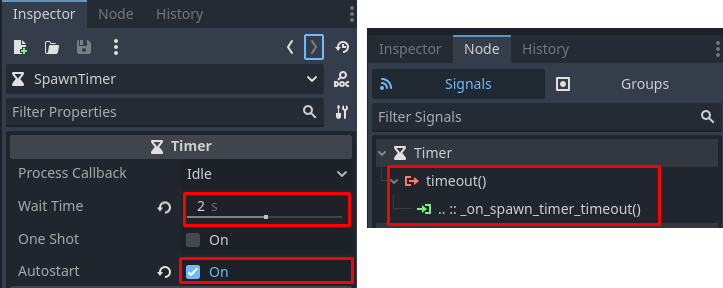
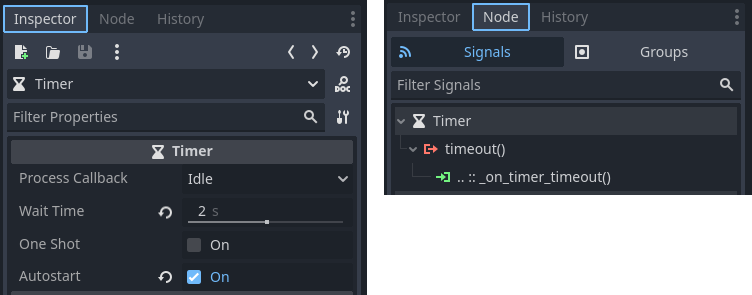
helid alaptk yle kontrollitud

diff --git a/laskur-2.0/helid.md b/laskur-2.0/helid.md
@@ -7,7 +7,7 @@ nav_order: 2
 
 # Helid
 
-Selles alapeatükis loome juurde veel ühe vastase, kes liigub Tweeniga loodud animatsiooni abiga, õpime Godot's helisid kasutama ja loome vastaseid haldava stseeni, mis vastaseid pidevalt juurde tekitab.
+Selles alapeatükis loome juurde veel ühe vastase, kes liigub Tweeniga loodud animatsiooni abiga, õpime Godot's helisid kasutama ja loome vastaseid haldava stseeni, mis vastaseid pidevalt juurde tekitab ja hiljem aitab meil skoori süsteemi ehitada.
 
 ## Lendaja
 
@@ -17,16 +17,14 @@ Sellel tegelasel on vaid **üks animatsioon**, mis **automaatselt** mängima hak
 
 ![Flyeri animatsiooni detailid](./pildid/helid/flyer-animatsioon.png)
 
-Lisa juurde CollisionShape2D, mille kujuks on RectangleShape2D ja Hitbox, mille CollisionShape2D kujuks on CircleShape2D. Määra neile suurused ise. Salvesta stseen `entities` kausta nagu teistegi olemustega. **Ära unusta sõlmede füüsikakihid** - juursõlm on *enemy* kihil ja põrkab kokku *level*iga, Hitbox peab ainult *player* kihti tuvastama.
+Lisa juurde CollisionShape2D, mille kujuks on RectangleShape2D ja Hitbox, mille CollisionShape2D kujuks on CircleShape2D. Määra neile suurused ise. Salvesta stseen `entities` kaustas oma kausta nagu teistega tegime. **Ära unusta sõlmede füüsikakihid** - juursõlm on *enemy* kihil ja põrkab kokku *level*iga, Hitbox peab ainult *player* kihti tuvastama.
 
-Määra Flyerile ka mingi elupunktide arv. Mina panin näiteks talle `max_health` väärtuseks 3.
+Määra Flyerile ka mingi elupunktide arv ja kiirus. Mina panin näiteks talle `max_health` väärtuseks 3 ja `speed` väärtuseks 50.
 
-Nüüd oleks vaja ta liikuma panna. Loo juurde skript `flyer.gd`. Lendaja on kogu aeg õhus ja lendab vaikselt üles-alla. Kuigi ta kutsub `_process(delta)` funktsioonis välja ikka `move_and_slide()`, siis tema liikumise loogika läheb tegelikult `_ready()` funktsiooni. Skript tuleb välja selline:
+Nüüd oleks vaja ta liikuma panna. Loo juurde skript `flyer.gd` juursõlme paremklõpsu menüüst valikuga `Extend Script...`. Lendaja on kogu aeg õhus ja lendab vaikselt üles-alla. Kuigi ta kutsub `_process(delta)` funktsioonis välja ikka `move_and_slide()`, siis tema liikumise loogika läheb tegelikult `_ready()` funktsiooni. Skript tuleb välja selline:
 
 ```gdscript
 extends Entity
-
-const MAX_Y_VELOCITY: float = 24.0
 
 @export var sprite: AnimatedSprite2D
 
@@ -35,19 +33,19 @@ func _ready() -> void:
 	sprite.flip_h = direction < 0.0
 	var tween = create_tween()
 	# paneb Tweeni animatsiooni korduma
-	# vajaduse korral saab argumendiks arvu anda
+	# vajaduse korral saab ka korduste arvu kirjutada, aga tahame et ta jääkski korduma
 	tween.set_loops()
 	tween.tween_property(
 		self,
 		"velocity:y", # muudab velocity.y väärtust
-		MAX_Y_VELOCITY,
+		speed,
 		1.0 # võtab 1 sekund
 	)
 	# toimub peale eelmise tween_property lõppu
 	tween.tween_property(
 		self,
 		"velocity:y",
-		-(MAX_Y_VELOCITY),
+		-(speed),
 		1.0
 	)
 
@@ -73,9 +71,9 @@ Ava taas peategelase stseen ja lisa kaks `AudioStreamPlayer` sõlme. Mina nimeta
 
 ![Helifaili valimise instruktsioon](./pildid/helid/helifaili-valimine.png)
 
-Avaneb väike aken, mis kuvab kõiki selleks väärtuseks sobivaid helifaile. Mina tegelesin ennem JumpAudioStreamPlayeriga, seega valisin `sounds/jump.wav`. Enne, kui teise heli juurde liigud, kontrolli oma heli volüümi. Mina leidsin, et see on vaikimisi liiga vali, seega langetasin `Volume dB` -10 detsibelli peale. Tee sama protsess läbi ka laskmise heliga. Laskmise helil võiks muuta ka `Max Polyphony` väärtuse 5 peale - see tähendab, et 5 laskmise heli võib korraga mängida.
+Avaneb väike aken, mis kuvab kõiki selleks väärtuseks sobivaid helifaile. Mina tegelen ennem JumpAudioStreamPlayeriga, seega valisin `sounds/jump.wav`. Enne, kui teise heli juurde liigud, kontrolli oma heli volüümi. Mina leidsin, et see on niisama liiga vali, seega langetasin `Volume dB` -10 detsibelli peale. Tee sama protsess läbi ka laskmise heliga. Laskmise helil võiks muuta ka `Max Polyphony` väärtuse 5 peale - see tähendab, et 5 laskmise heli võib korraga mängida, kui mängija väga kiiresti relva laseb.
 
-Kui sõlmed on ette valmistatud, siis peame viimast korda `player.gd` skripti muutma. Meie heli sõlmede jaoks on vaja eksportmuutujaid ning on vaja leida õiged read, kus AudioStreamPlayeri `play()` funktsiooni kasutada.
+Kui sõlmed on ette valmistatud, siis peame viimast korda `player.gd` skripti muutma. Meie heli sõlmede jaoks on vaja **eksportmuutujaid** ning on vaja leida õiged read, kus AudioStreamPlayeri `play()` funktsiooni kasutada.
 
 ```gdscript
 	... (muu kood)
@@ -99,7 +97,7 @@ Kui sõlmed on ette valmistatud, siis peame viimast korda `player.gd` skripti mu
 
 Praegu tundub meie projekt ikka rohkem nagu prototüüp kui tõeline mäng. Seda saame parandada uue süsteemiga, mis vastaseid pidevalt põhistseenis juurde tekitama hakkab. Niimoodi on mängijal pidevalt vaja vastaseid hävitada ja mäng on kaasahaaravam.
 
-Loo uus stseen, kus tavaline Node2D on juursõlm ja tema ainus laps-sõlm on **Timer** (eesti keeles taimer). Timer sõlme me pole veel kasutanud, aga tema funktsionaalsus on päris ilmne - see võtab aega ja mingi aja möödudes lõpetab oma töö.
+Loo uus stseen, kus tavaline Node2D nimega `EnemyManager` on juursõlm ja tema ainus laps-sõlm on **Timer** (eesti keeles taimer). Timer sõlme me pole veel kasutanud, aga tema funktsionaalsus on päris ilmne - see võtab aega ja mingi aja möödudes lõpetab oma töö.
 
 Loo juursõlmele uus skript nimega `enemy_manager.gd`. Kohe ei pea sinna midagi kirjutama, kuid Timeri `timeout()` signaali kasutamiseks on vaja skripti, millega seda ühendada. Määra taimeri `Wait Time` väärtuseks inspektoris 2 sekundit, märgi tõeseks `Autostart` väärtus ja ühenda siis tema `timeout()` signaal skriptiga.
 

diff --git a/2d-mang/laskmine.md b/2d-mang/laskmine.md
@@ -65,7 +65,7 @@ Area2D (*hitbox*/tabamisala):
 
 ## Skript
 
-On aeg luua meie kuulile skript nimega `bullet.gd`. Kuulil on sarnaselt peategelasele vaja kiiruse muutujat ja suuna muutujat, et teada, kuhu ta lendab. Lisaks on vaja eksportmuutujat Sprite2D jaoks, sest me plaanime spraiti pöörata `_ready` funktsioonis olenevalt kuuli suunast. Spraidi pööramiseks on olemas käepärane omadus `flip_h`, mis vaikimisi on **väär**.
+On aeg luua meie kuulile skript nimega `bullet.gd`. Kuulil on sarnaselt peategelasele vaja kiiruse muutujat ja suuna muutujat, et teada, kuhu ta lendab. Lisaks on vaja eksportmuutujat Sprite2D jaoks, sest me plaanime spraiti pöörata `_ready()` funktsioonis olenevalt kuuli suunast. Spraidi pööramiseks on olemas käepärane omadus `flip_h`, mis vaikimisi on **väär**.
 
 ### Ülesanne 1
 
@@ -73,8 +73,8 @@ Kirjuta kuuli skripti siis järgnevad asjad:
 
 -	muutujad kiiruse, suuna ja Sprite2D sõlme jaoks
 	-	suuna väärtus võiks vaikimisi 1.0 olla ehk paremale
--	`_ready` funktsioon, kus Sprite2D pöörad
--	`_process` funktsioon
+-	`_ready()` funktsioon, kus Sprite2D pöörad
+-	`_process()` funktsioon
 	-	`velocity.x` väärtuse määramine
 	-	kuuli liikuma panemine
 
@@ -94,7 +94,7 @@ func _process(delta: float) -> void:
 	move_and_slide()
 ```
 
-Meie tabamisala Area2D väljastab signaali, kui vastast puutub, aga midagi ei juhtu vastasega veel. Selleks vali stseeni dokis Area2D sõlm, liigu sõlme dokki (inspektori dokist parempoolse nupu kaudu). Leia signaal `body_entered(body: Node2D)` ja ühenda see juursõlme skriptiga. Skripti tekib funktsioon `_on_area_2d_body_entered`. Seal kontrollime, kas meie `body` argument on ikka `CharacterBody2D` tüüpi. Kui on tegu `CharacterBody2D`'ga, siis kustutatakse see tegelane, mille Area2D tuvastas.
+Meie tabamisala Area2D väljastab signaali, kui vastast puutub, aga midagi ei juhtu vastasega veel. Selleks vali stseeni dokis Area2D sõlm, liigu sõlme dokki (inspektori dokist parempoolse nupu kaudu). Leia signaal `body_entered(body: Node2D)` ja ühenda see juursõlme skriptiga. Skripti tekib funktsioon `_on_area_2d_body_entered()`. Seal kontrollime, kas meie `body` argument on ikka `CharacterBody2D` tüüpi. Kui on tegu `CharacterBody2D`'ga, siis kustutatakse see tegelane, mille Area2D tuvastas.
 
 Kuuli skripti lõppu läheks siis selline kood kirja:
 
@@ -119,7 +119,7 @@ Lisame siis peategelase stseeni Marker2D. Mina liigutasin selle enda stseenis po
 
 Skriptis loo eksportmuutuja markeri jaoks nimega `bullet_marker` ja enda signaal nimega `shot_projectile(spawn_position: Vector2, direction: float)`. Kui toimub laskmise tegevus, siis seda signaali saadetakse laiali koos vastavate argumentidega.
 
-`_process` funktsioonile lisatakse juurde siis järgnev kood enne `move_and_slide()` käsku:
+`_process()` funktsioonile lisatakse juurde siis järgnev kood enne `move_and_slide()` käsku:
 
 ```gdscript
 	... (muu kood)

diff --git a/2d-mang/liikumine.md b/2d-mang/liikumine.md
@@ -24,11 +24,11 @@ Suund ei pea eksportmuutuja olema, kuna see muutub pidevalt tegelase liikudes. S
 -	0: seismine
 -	1: paremale liikumine
 
-Kustuta `_ready` funktsioon. Kirjutame `_process` funktsiooni tegelase algelise liikumise loogika. Esiteks peame nüüd tegelase liikumissuuna määrama. Seda saame teha funktsiooniga `Input.get_axis(negative_action, positive_action)`. Kuna `action` tähendab tegevust, siis argumentideks saavad tegevuste nimed. Negatiivne tegevus tähendab siin seda, et tegelane liigub X-telje negatiivsel suunal ja positiivne tegevus vastupidist. Seega meie negatiivne tegevus olgu `move_left` ja positiivne olgu `move_right`. 
+Kustuta `_ready()` funktsioon. Kirjutame `_process()` funktsiooni tegelase algelise liikumise loogika. Esiteks peame nüüd tegelase liikumissuuna määrama. Seda saame teha funktsiooniga `Input.get_axis(negative_action, positive_action)`. Kuna `action` tähendab tegevust, siis argumentideks saavad tegevuste nimed. Negatiivne tegevus tähendab siin seda, et tegelane liigub X-telje negatiivsel suunal ja positiivne tegevus vastupidist. Seega meie negatiivne tegevus olgu `move_left` ja positiivne olgu `move_right`. 
 
 CharacterBody2D liigub, kui muudad tema `velocity` muutujat ja kasutad `move_and_slide()` funktsiooni. `velocity` on Vector2 klassi isend, mis on 2-dimensiooniline vektor `x` ja `y` muutujaga. Näiteks on ka Node2D klassi muutuja `position` Vector2 klassi isend.
 
-Tegelase liikumine sõltub suunast ja kiirusest, seega nüüd määrame CharacterBody2D `velocity.x` väärtuseks `direction * speed`. Lisaks, et tegelane peale `velocity` määramist lõpuks liikuma hakkaks, peame `_process` lõppu lisama käsu `move_and_slide()`.
+Tegelase liikumine sõltub suunast ja kiirusest, seega nüüd määrame CharacterBody2D `velocity.x` väärtuseks `direction * speed`. Lisaks, et tegelane peale `velocity` määramist lõpuks liikuma hakkaks, peame `_process()` lõppu lisama käsu `move_and_slide()`.
 Võid nüüd oma mängu tööle panna ülariba nupust `Run Current Scene (F6)` ja veenduda, et tegelase liikumist on akna ülaosas näha, kui nooleklahve vajutad.
 
 Nii *velocity* kui ka *speed* tähendavad eesti keeles kiirust, aga *velocity* puhul on ka suund oluline. See tähendab, et meie tehe selle arvutamiseks `direction * speed = velocity` on õige.

diff --git a/lahendused/ulesanne-5.md b/lahendused/ulesanne-5.md
@@ -7,7 +7,7 @@ nav_exclude: true
 # Ülesanne 5
 
 Ülesanne oli vastaste halduri stseenis kirjutada välja funktsioon, mis reageerib Timer sõlme `timeout` signaalile.
-Funktsioon pidi valima suvalise vastase ja suvalise Marker2D sõlme. Vastane asetati Marker2D sõlme juurde. Lisaks pidi vastase surma korral edasi levitama uut signaali `enemy_died`.
+Funktsioon pidi valima suvalise vastase ja suvalise Marker2D sõlme. Vastane asetati Marker2D sõlme juurde. Lisaks pidi vastase surma korral edasi levitama uut signaali `spawned_enemy_died`.
 
 ```gdscript
 extends Node2D
@@ -25,11 +25,11 @@ func _ready() -> void:
 		spawn_markers.append(child)
 
 # loob suvalise vastase ja asetab ta suvalise markeri asukohta
-# vastase surma korral (died signaal) levitab enda enemy_died signaali
+# vastase surma korral (died signaal) levitab enda spawned_enemy_died signaali
 func _on_spawn_timer_timeout() -> void:
+	var marker: Marker2D = spawn_markers.pick_random()
 	var enemy_scene: PackedScene = enemy_scenes.pick_random()
 	var enemy: Entity = enemy_scene.instantiate()
-	var marker: Marker2D = spawn_markers.pick_random()
 	enemy.global_position = marker.global_position
 	enemy.died.connect(spawned_enemy_died.emit)
 	add_child(enemy)
